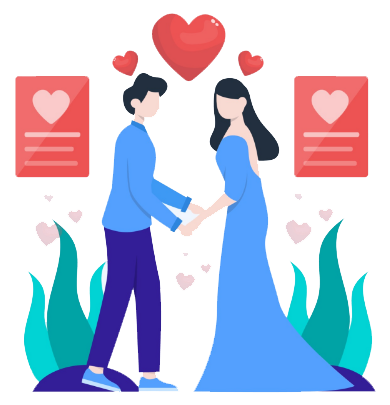
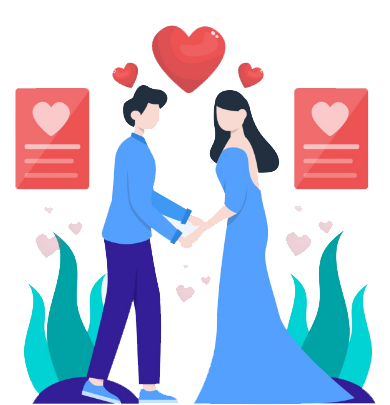
Landing done

diff --git a/index.html b/index.html
@@ -31,7 +31,7 @@
             </a>
         </div>
         <div class="landing-bgs" style="background-image: url('assets/images/landing/landing.svgs');">
-            <img class="img-fluid" src="assets/images/landing/landing.svg" alt="">
+            <img class="img-fluid" src="assets/images/landing/a-couple-is-engaged-and-preparin.png" alt="">
         </div>
     </div>
 
